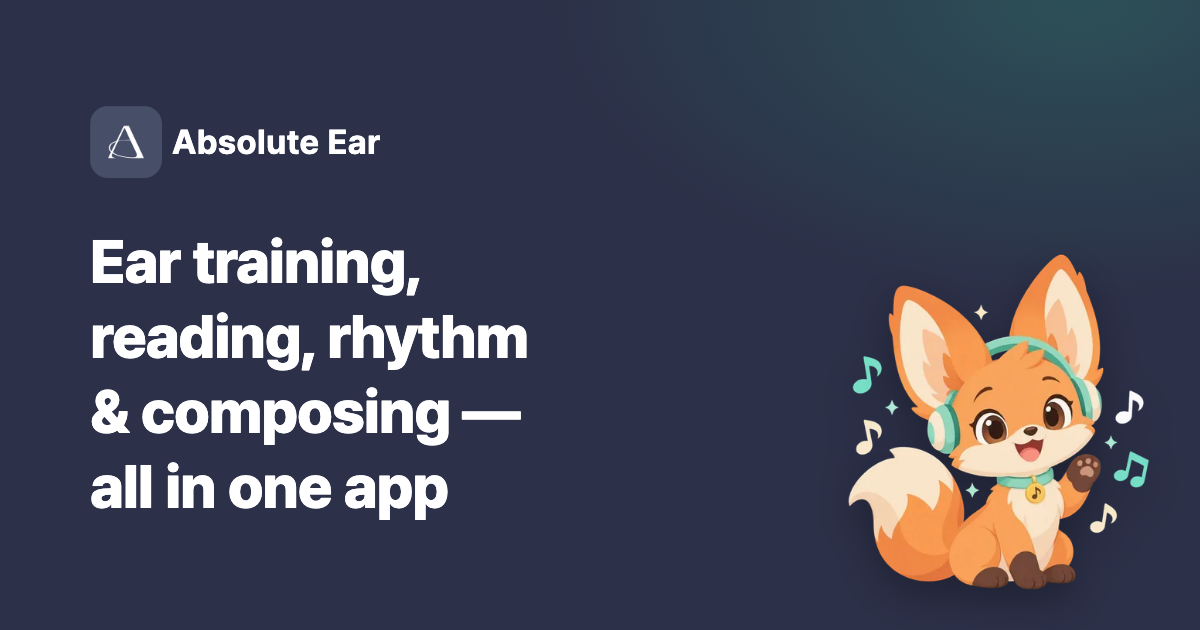
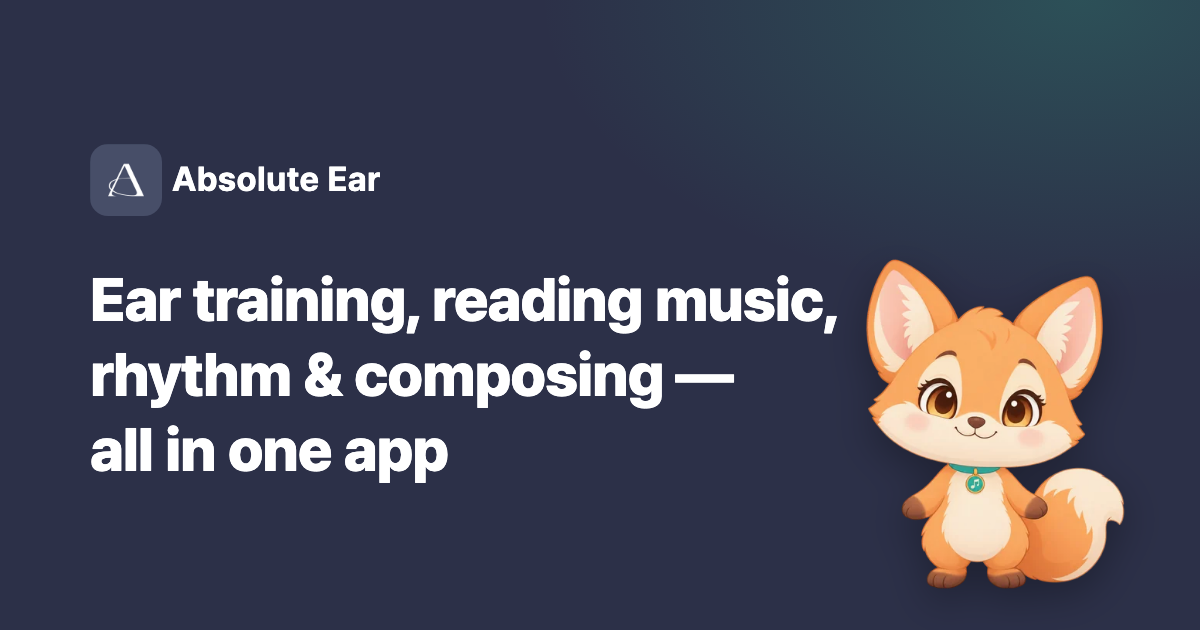
fix: 히어로 마스코트를 앱 원본 소리 그림으로 바꾼다
생성 그림은 머리 비율·표정·메달 색이 앱의 소리와 달라 반려됨.
앱 원본과 픽셀 비교 검사를 추가한다.

Changed region(s): [[0.0617, 0.1508, 0.9558, 0.9349]]

diff --git a/assets/css/site.css b/assets/css/site.css
@@ -100,7 +100,7 @@ a { color: inherit; }
 
 .hero-phone { display: flex; justify-content: center; position: relative; }
 
-/* 헤드폰 쓴 소리가 폰 왼쪽 아래에 걸터앉는다 */
+/* 앱의 소리가 폰 왼쪽 아래에 서 있고, 앱 홈처럼 음표가 떠다닌다 */
 .hero-sori {
   position: absolute;
   width: min(170px, 42vw);
@@ -110,6 +110,32 @@ a { color: inherit; }
 }
 
 .cta-sori { width: 140px; margin: 0 auto 8px; }
+
+.sori-notes {
+  position: absolute;
+  left: calc(50% - min(250px, 62vw) / 2 - min(80px, 18vw));
+  bottom: min(150px, 34vw);
+  width: min(170px, 42vw);
+  height: 60px;
+  pointer-events: none;
+}
+.sori-notes i {
+  position: absolute;
+  font-style: normal;
+  font-size: 1.6rem;
+  color: #6dddc3;
+  animation: note-float 3.2s ease-in-out infinite;
+}
+.sori-notes i:nth-child(1) { left: 6%; top: 10px; }
+.sori-notes i:nth-child(2) { left: 46%; top: -14px; color: #fff; animation-delay: -1.1s; }
+.sori-notes i:nth-child(3) { left: 84%; top: 14px; color: #f6d9b8; animation-delay: -2.2s; }
+@keyframes note-float {
+  0%, 100% { transform: translateY(0); opacity: 0.9; }
+  50% { transform: translateY(-10px); opacity: 0.55; }
+}
+@media (prefers-reduced-motion: reduce) {
+  .sori-notes i { animation: none; }
+}
 
 .phone {
   width: min(250px, 62vw);
@@ -230,6 +256,7 @@ details p { color: var(--muted); margin: 10px 0 0; }
   .hero-phone { flex: 0 0 auto; }
   .phone { width: 270px; }
   .hero-sori { width: 190px; left: -110px; bottom: -10px; }
+  .sori-notes { width: 190px; left: -110px; bottom: 175px; }
   .cards { grid-template-columns: repeat(3, 1fr); }
   .feature { grid-template-columns: 1fr 1.2fr; gap: 56px; }
   .feature.reverse > img { order: 2; }
@@ -241,6 +268,7 @@ details p { color: var(--muted); margin: 10px 0 0; }
   .hero { padding-top: 64px; padding-bottom: 110px; }
   .phone { width: 300px; }
   .hero-sori { width: 220px; left: -140px; }
+  .sori-notes { width: 220px; left: -140px; bottom: 205px; }
 }
 
 .nw { white-space: nowrap; }

diff --git a/zh/index.html b/zh/index.html
@@ -41,7 +41,8 @@
     </div>
     <div class="hero-phone">
       <img class="phone" src="/assets/img/phone-hero.webp" alt="Absolute Ear 应用主页" width="720" height="1520">
-      <img class="hero-sori" src="/assets/img/hero-sori.webp" alt="" width="440" height="437">
+      <span class="sori-notes" aria-hidden="true"><i>♪</i><i>♫</i><i>♩</i></span>
+      <img class="hero-sori" src="/assets/img/sori.webp" alt="" width="440" height="431">
     </div>
   </section>
 </header>
@@ -117,7 +118,7 @@
   </section>
 
   <section id="cta" class="cta wrap">
-    <img class="cta-sori" src="/assets/img/hero-sori.webp" alt="" width="440" height="437" loading="lazy">
+    <img class="cta-sori" src="/assets/img/sori.webp" alt="" width="440" height="431" loading="lazy">
     <h2><span class="nw">从听音</span><span class="nw">到识谱、</span><span class="nw">节奏、作曲，</span><br><span class="nw">音感训练，</span><span class="nw">一个应用</span><span class="nw">就够了</span></h2>
     <div class="badges"><a class="badge badge-apple" href="https://apps.apple.com/app/id6739764701"><img src="/assets/badges/appstore-zh.svg" alt="在 App Store 下载" width="131" height="48"></a><a class="badge badge-play" href="https://play.google.com/store/apps/details?id=com.tigerstone.AbsoluteEar&referrer=utm_source%3Dhomepage%26utm_medium%3Dweb%26utm_campaign%3Dfooter-cta"><img src="/assets/badges/play-zh.png" alt="在 Google Play 下载" width="162" height="48"></a></div>
   </section>

diff --git a/en/index.html b/en/index.html
@@ -41,7 +41,8 @@
     </div>
     <div class="hero-phone">
       <img class="phone" src="/assets/img/phone-hero.webp" alt="Absolute Ear home screen" width="720" height="1520">
-      <img class="hero-sori" src="/assets/img/hero-sori.webp" alt="" width="440" height="437">
+      <span class="sori-notes" aria-hidden="true"><i>♪</i><i>♫</i><i>♩</i></span>
+      <img class="hero-sori" src="/assets/img/sori.webp" alt="" width="440" height="431">
     </div>
   </section>
 </header>
@@ -117,7 +118,7 @@
   </section>
 
   <section id="cta" class="cta wrap">
-    <img class="cta-sori" src="/assets/img/hero-sori.webp" alt="" width="440" height="437" loading="lazy">
+    <img class="cta-sori" src="/assets/img/sori.webp" alt="" width="440" height="431" loading="lazy">
     <h2><span class="nw">Ear training,</span> <span class="nw">reading music,</span> <span class="nw">rhythm &</span> <span class="nw">composing —</span><br><span class="nw">all in one app</span></h2>
     <div class="badges"><a class="badge badge-apple" href="https://apps.apple.com/app/id6739764701"><img src="/assets/badges/appstore-en.svg" alt="Download on the App Store" width="144" height="48"></a><a class="badge badge-play" href="https://play.google.com/store/apps/details?id=com.tigerstone.AbsoluteEar&referrer=utm_source%3Dhomepage%26utm_medium%3Dweb%26utm_campaign%3Dfooter-cta"><img src="/assets/badges/play-en.png" alt="Get it on Google Play" width="161" height="48"></a></div>
   </section>

diff --git a/index.html b/index.html
@@ -41,7 +41,8 @@
     </div>
     <div class="hero-phone">
       <img class="phone" src="/assets/img/phone-hero.webp" alt="Absolute Ear 앱 홈 화면" width="720" height="1520">
-      <img class="hero-sori" src="/assets/img/hero-sori.webp" alt="" width="440" height="437">
+      <span class="sori-notes" aria-hidden="true"><i>♪</i><i>♫</i><i>♩</i></span>
+      <img class="hero-sori" src="/assets/img/sori.webp" alt="" width="440" height="431">
     </div>
   </section>
 </header>
@@ -117,7 +118,7 @@
   </section>
 
   <section id="cta" class="cta wrap">
-    <img class="cta-sori" src="/assets/img/hero-sori.webp" alt="" width="440" height="437" loading="lazy">
+    <img class="cta-sori" src="/assets/img/sori.webp" alt="" width="440" height="431" loading="lazy">
     <h2><span class="nw">청음부터</span> <span class="nw">악보·리듬·작곡까지,</span><br><span class="nw">음감 훈련을</span> <span class="nw">앱 하나로</span></h2>
     <div class="badges"><a class="badge badge-apple" href="https://apps.apple.com/app/id6739764701"><img src="/assets/badges/appstore-ko.svg" alt="App Store에서 다운로드" width="156" height="48"></a><a class="badge badge-play" href="https://play.google.com/store/apps/details?id=com.tigerstone.AbsoluteEar&referrer=utm_source%3Dhomepage%26utm_medium%3Dweb%26utm_campaign%3Dfooter-cta"><img src="/assets/badges/play-ko.png" alt="Google Play에서 다운로드" width="162" height="48"></a></div>
   </section>

diff --git a/_dev/template.html b/_dev/template.html
@@ -41,7 +41,8 @@
     </div>
     <div class="hero-phone">
       <img class="phone" src="/assets/img/phone-hero.webp" alt="{{hero_phone_alt}}" width="720" height="1520">
-      <img class="hero-sori" src="/assets/img/hero-sori.webp" alt="" width="440" height="437">
+      <span class="sori-notes" aria-hidden="true"><i>♪</i><i>♫</i><i>♩</i></span>
+      <img class="hero-sori" src="/assets/img/sori.webp" alt="" width="440" height="431">
     </div>
   </section>
 </header>
@@ -117,7 +118,7 @@
   </section>
 
   <section id="cta" class="cta wrap">
-    <img class="cta-sori" src="/assets/img/hero-sori.webp" alt="" width="440" height="437" loading="lazy">
+    <img class="cta-sori" src="/assets/img/sori.webp" alt="" width="440" height="431" loading="lazy">
     <h2>{{hero_title}}</h2>
     <div class="badges">{{@badges_cta}}</div>
   </section>

diff --git a/_dev/layout_check.html b/_dev/layout_check.html
@@ -8,6 +8,8 @@ f.width = q.get('w') || 360; f.height = 900; f.style.border = 0;
 f.src = q.get('p') || '/';
 f.onload = async () => {
   const d = f.contentDocument;
+  // 무한 애니메이션이 있으면 헤드리스 가상 시간이 끝나지 않는다 — 측정 중에는 끈다
+  const st = d.createElement('style'); st.textContent = '*{animation:none!important;transition:none!important}'; d.head.appendChild(st);
   if (q.get('scale')) d.documentElement.style.fontSize = (100 * q.get('scale')) + '%';
   await d.fonts.ready; await new Promise(r => setTimeout(r, 400));
   const bad = [];

diff --git a/_dev/check_site.py b/_dev/check_site.py
@@ -122,6 +122,7 @@ def check_page(lang, rel):
         if t == "a" and a.get("data-lang") and not a.get("lang"):
             fail(f"[{lang}] 언어 링크에 lang 속성 없음: {a.get('href')}")
     check_sections(lang, path.read_text(encoding="utf-8"))
+    check_mascot(lang, path.read_text(encoding="utf-8"))
     return p
 
 
@@ -196,6 +197,30 @@ def check_shot_resolution():
             fail(f"{n}.webp 폭 {w}px (720 이상이어야 선명)")
         if f.stat().st_size > 250_000:
             fail(f"{n}.webp {f.stat().st_size // 1000}KB (250KB 이하)")
+
+
+APP_SORI = Path.home() / "abp" / "absolute_ear" / "assets" / "images" / "mascot" / "sori.webp"
+
+
+def check_mascot(lang, html):
+    """마스코트 그림은 앱 원본 소리여야 한다 (생성 그림은 생김새가 달라 사용자 반려)."""
+    import re
+    srcs = re.findall(r'<img class="(?:hero|cta)-sori" src="([^"]+)"', html)
+    if len(srcs) != 2 or any(s != "/assets/img/sori.webp" for s in srcs):
+        fail(f"[{lang}] 히어로·CTA 마스코트가 sori.webp 가 아님: {srcs}")
+
+
+def check_mascot_matches_app():
+    from PIL import Image, ImageChops, ImageStat
+    if not APP_SORI.exists():
+        return
+    site = Image.open(ROOT / "assets" / "img" / "sori.webp").convert("RGBA")
+    app = Image.open(APP_SORI).convert("RGBA")
+    app = app.crop(app.getbbox())
+    a, b = site.resize((64, 64)), app.resize((64, 64))
+    diff = sum(ImageStat.Stat(ImageChops.difference(a, b)).mean) / 4
+    if diff > 6:
+        fail(f"sori.webp 가 앱 원본과 다름 (평균 차이 {diff:.1f})")
 
 
 def check_sitemap():
@@ -284,11 +309,18 @@ def check_layout():
         for lang in PAGES:
             path = "/" if lang == "ko" else f"/{lang}/"
             for w, scale in LAYOUTS:
-                with tempfile.TemporaryDirectory() as prof:
-                    url = f"http://127.0.0.1:{port}/_dev/layout_check.html?w={w}&p={path}&scale={scale}"
-                    out = subprocess.run([CHROME, "--headless=new", "--disable-gpu", f"--user-data-dir={prof}",
-                                          "--lang=ko-KR", "--virtual-time-budget=8000", "--dump-dom", url],
-                                         capture_output=True, text=True, timeout=60).stdout
+                url = f"http://127.0.0.1:{port}/_dev/layout_check.html?w={w}&p={path}&scale={scale}"
+                out = ""
+                for _ in range(2):  # 헤드리스 Chrome 이 가끔 멈추면 한 번 더
+                    with tempfile.TemporaryDirectory() as prof:
+                        try:
+                            out = subprocess.run([CHROME, "--headless=new", "--disable-gpu", f"--user-data-dir={prof}",
+                                                  "--lang=ko-KR", "--virtual-time-budget=8000", "--dump-dom", url],
+                                                 capture_output=True, text=True, timeout=60).stdout
+                        except subprocess.TimeoutExpired:
+                            out = ""
+                    if '<pre id="result">' in out and "pending" not in out:
+                        break
                 m = re.search(r'<pre id="result">(.*?)</pre>', out, re.S)
                 res = htmllib.unescape(m.group(1)) if m else "결과 없음"
                 if res == "pending" or res == "결과 없음":
@@ -330,6 +362,7 @@ def main():
             check_meta(lang, p)
     check_sitemap()
     check_shot_resolution()
+    check_mascot_matches_app()
     if "--no-layout" not in sys.argv:
         check_layout()
     if errors:

diff --git a/_dev/make_og.py b/_dev/make_og.py
@@ -15,7 +15,7 @@ background:radial-gradient(900px 500px at 90% 0%,rgba(46,176,134,.25),transparen
 .og h1{{max-width:760px;font-size:60px;line-height:1.25;margin:28px 0 0;font-weight:800;letter-spacing:-.02em}}</style></head>
 <body><div class="og"><p class="app-name" style="font-size:34px"><img src="/assets/img/app-icon.png" width="72" height="72" style="border-radius:18px">Absolute Ear</p>
 <h1>{title}</h1></div>
-<img src="/assets/img/hero-sori.webp" style="position:absolute;right:50px;bottom:40px;width:340px;filter:drop-shadow(0 14px 20px rgba(0,0,0,.3))">
+<img src="/assets/img/sori.webp" style="position:absolute;right:50px;bottom:40px;width:340px;filter:drop-shadow(0 14px 20px rgba(0,0,0,.3))">
 </body></html>"""
 
 for lang in ("ko", "en", "zh"):
